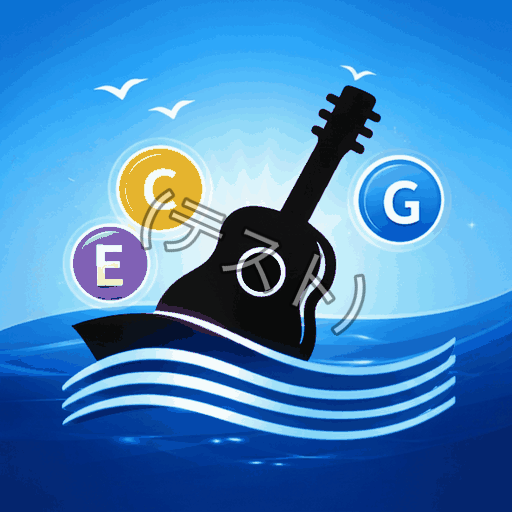
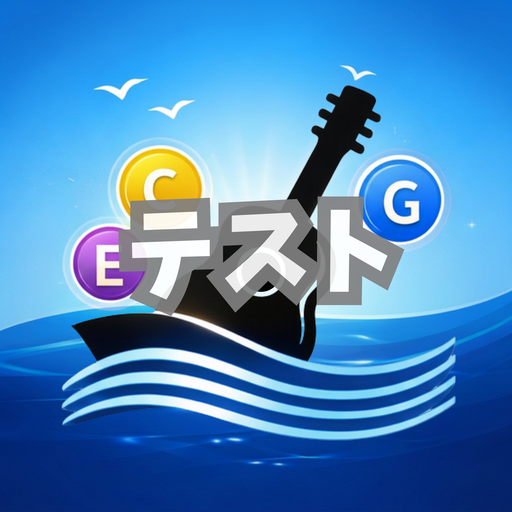
chore(staging): アイコン元を icon_idea/staging.png に統一し 192/512 にリサイズ
- LANCZOS で icon_pwa_192/512 を再出力
- generate_staging_icons.py は元画像からのリサイズのみに変更
- 元画像 staging.png をリポジトリに追加、URL_manual・manifest 説明を更新

Made-with: Cursor

diff --git a/staging/index.html b/staging/index.html
@@ -9,7 +9,7 @@
     <link rel="preconnect" href="https://fonts.googleapis.com">
     <link rel="preconnect" href="https://fonts.gstatic.com" crossorigin>
     <link href="https://fonts.googleapis.com/css2?family=Outfit:wght@300;500;700&display=swap" rel="stylesheet">
-    <link rel="manifest" href="manifest.json?v=2">
+    <link rel="manifest" href="manifest.json?v=3">
     <meta name="theme-color" content="#c9a227">
     <meta name="apple-mobile-web-app-capable" content="yes">
     <meta name="apple-mobile-web-app-status-bar-style" content="black-translucent">

diff --git a/staging/generate_staging_icons.py b/staging/generate_staging_icons.py
@@ -1,64 +1,24 @@
 #!/usr/bin/env python3
-"""一度だけ実行: 親の PWA アイコンに (テスト) 透かしを載せて staging 用 PNG を出力する。"""
+"""icon_idea/staging.png を PWA 用 192 / 512 にリサイズして staging/ に出力する。"""
 from pathlib import Path
 
-from PIL import Image, ImageDraw, ImageFont
+from PIL import Image
 
 ROOT = Path(__file__).resolve().parent.parent
 STAGING = Path(__file__).resolve().parent
-TEXT = "(テスト)"
-
-FONT_CANDIDATES = [
-    ("/System/Library/Fonts/Hiragino Sans GB.ttc", 0),
-    ("/System/Library/Fonts/AppleSDGothicNeo.ttc", 0),
-    ("/System/Library/Fonts/Supplemental/Arial Unicode.ttf", 0),
-]
+SRC = ROOT / "icon_idea" / "staging.png"
+SIZES = (192, 512)
 
 
-def load_font(size: int):
-    for path, index in FONT_CANDIDATES:
-        p = Path(path)
-        if not p.is_file():
-            continue
-        try:
-            return ImageFont.truetype(str(p), size, index=index)
-        except OSError:
-            continue
-    return ImageFont.load_default()
-
-
-def watermark(src: Path, dst: Path) -> None:
-    base = Image.open(src).convert("RGBA")
-    w, h = base.size
-    font_size = max(int(min(w, h) * 0.13), 14)
-    font = load_font(font_size)
-
-    bbox = ImageDraw.Draw(base).textbbox((0, 0), TEXT, font=font)
-    tw, th = bbox[2] - bbox[0], bbox[3] - bbox[1]
-    pad = max(2, font_size // 8)
-    layer = Image.new("RGBA", (tw + pad * 2, th + pad * 2), (0, 0, 0, 0))
-    draw = ImageDraw.Draw(layer)
-    stroke = max(1, font_size // 18)
-    # やや透明の白＋薄い縁取りでアイコン上でも読める透かし
-    draw.text(
-        (pad, pad),
-        TEXT,
-        font=font,
-        fill=(255, 255, 255, 115),
-        stroke_width=stroke,
-        stroke_fill=(0, 0, 0, 100),
-    )
-    angle = -24
-    layer = layer.rotate(angle, expand=True, resample=Image.Resampling.BICUBIC)
-    lw, lh = layer.size
-    base.alpha_composite(layer, ((w - lw) // 2, (h - lh) // 2))
-    base.save(dst, format="PNG")
-    print("wrote", dst)
-
-
-def main():
-    watermark(ROOT / "icon_pwa_192.png", STAGING / "icon_pwa_192.png")
-    watermark(ROOT / "icon_pwa_512.png", STAGING / "icon_pwa_512.png")
+def main() -> None:
+    if not SRC.is_file():
+        raise SystemExit(f"source not found: {SRC}")
+    im = Image.open(SRC).convert("RGBA")
+    for size in SIZES:
+        out = im.resize((size, size), Image.Resampling.LANCZOS)
+        path = STAGING / f"icon_pwa_{size}.png"
+        out.save(path, format="PNG", optimize=True)
+        print("wrote", path)
 
 
 if __name__ == "__main__":
